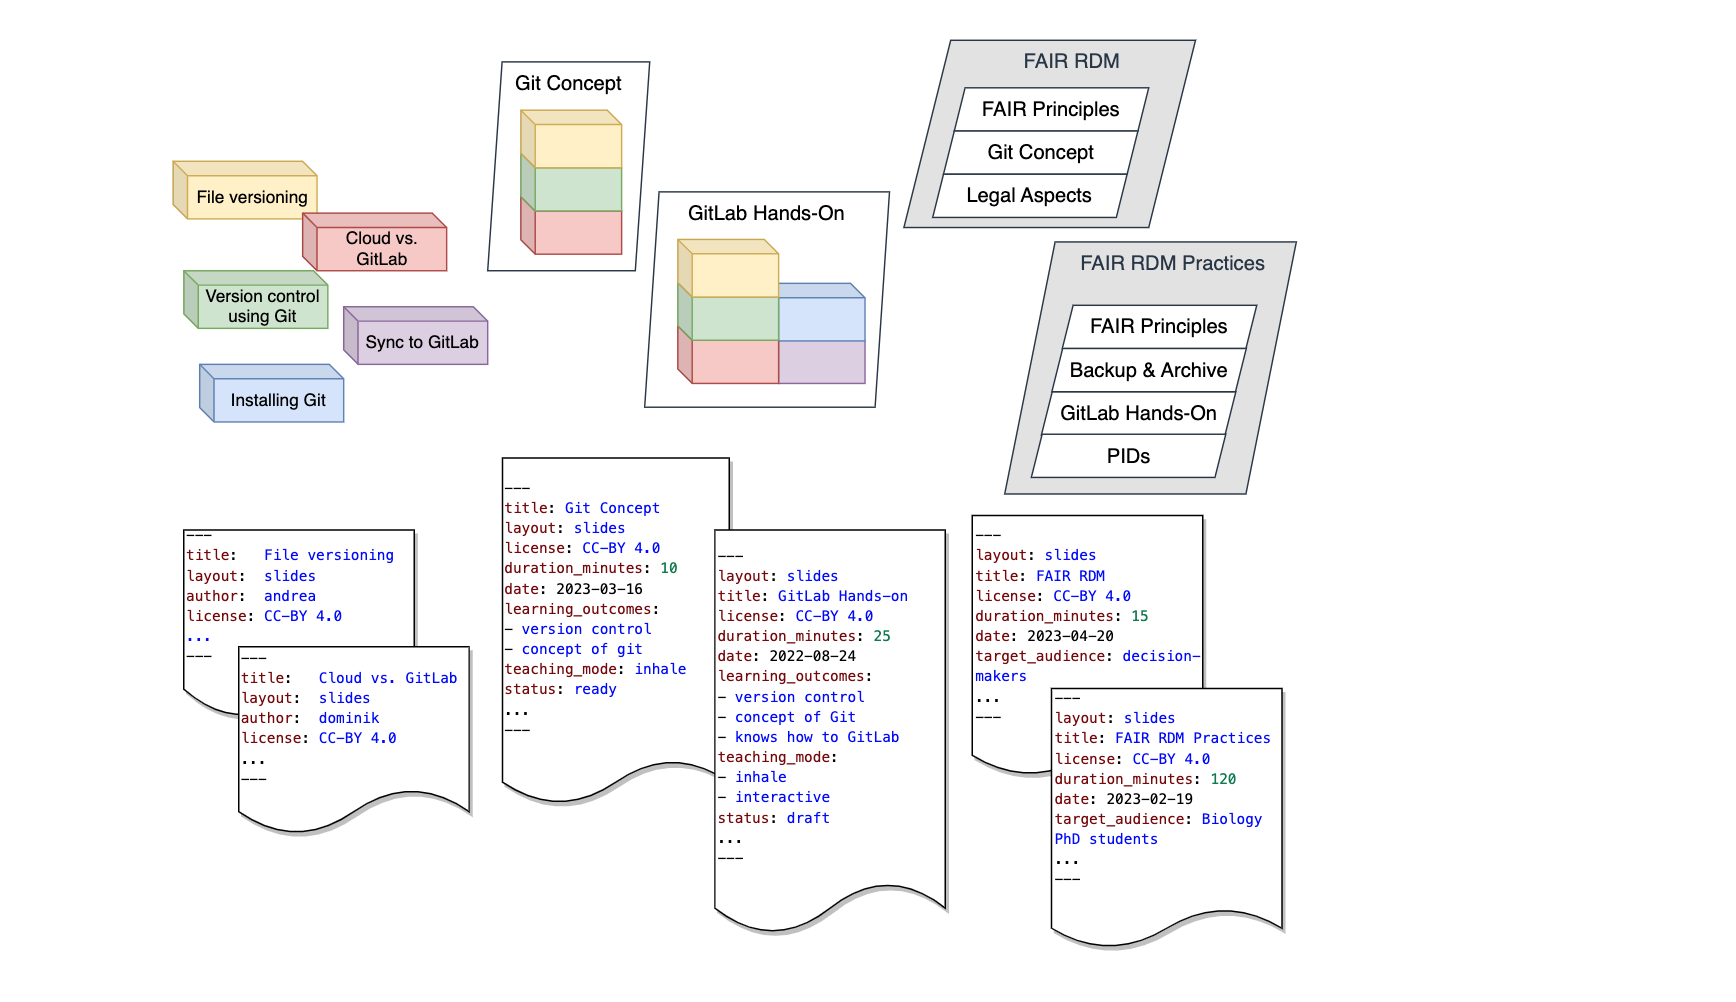
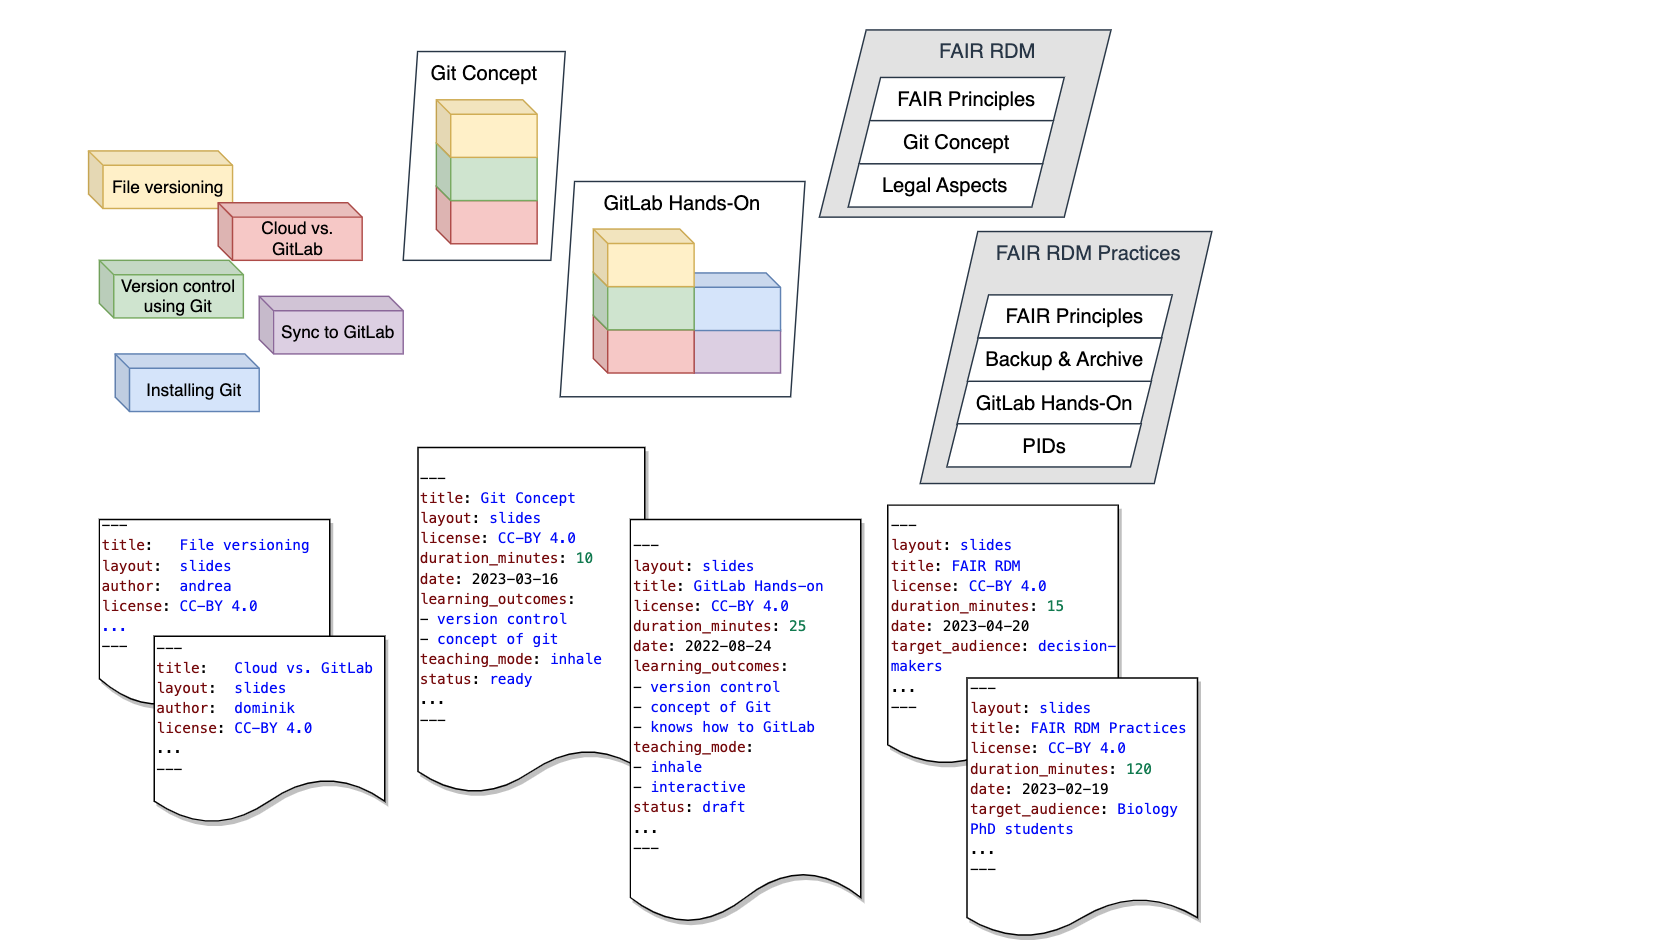
Corrected the crooked box in the corrected draw.io version of the raw file which got misshaped during corrections. Split this figure as suggested already by @Brilator in a previous PR and adjusted the README.md accordingly. Created the screenshot anew from the shape corrected image. Added all images

diff --git a/README.md b/README.md
@@ -1,6 +1,12 @@
 # Teaching materials  - Concept
 
-![](images/teaching_modular_corr.drawio.png)
+## A) Modular concept for the DataPLANT OER
+
+![](images/teaching_concept-A.drawio.png)
+
+## B) Example “version control using Git”
+
+![](images/teaching_concept-B.drawio.png)
 
 # Origin / Use
 
@@ -9,6 +15,8 @@ The repository provided [here](https://github.com/nfdi4plants/teaching-materials
 A [teaching materials section](https://github.com/nfdi4plants/nfdi4plants.knowledgebase/tree/main/src/docs/teaching-materials) based on this concept has already been integrated into the [DataPLANT Knowledge Base](https://nfdi4plants.org/nfdi4plants.knowledgebase/index.html) [repsitory](https://github.com/nfdi4plants/nfdi4plants.knowledgebase). 
 
 The concept in [this repository](https://github.com/nfdi4plants/teaching-materials-concept) has been summarized as a contribution to [NFDI CoRDI](https://www.nfdi.de/cordi-2023/?lang=en).
+
+For more details, please see also the [submitted extended abstract to CoRDI2023](./cordi2023_files/extended_abstract/2023-04-25_One-source-to-teach-them-all.pdf) and the [exemplary contribution guide](./CONTRIBUTING.md) which also holds valuable information on the repository overview, suggested file, figure and slide conventions as well as more context on bricks, units, dissemination and yaml headers.
 
 <br/>
 
